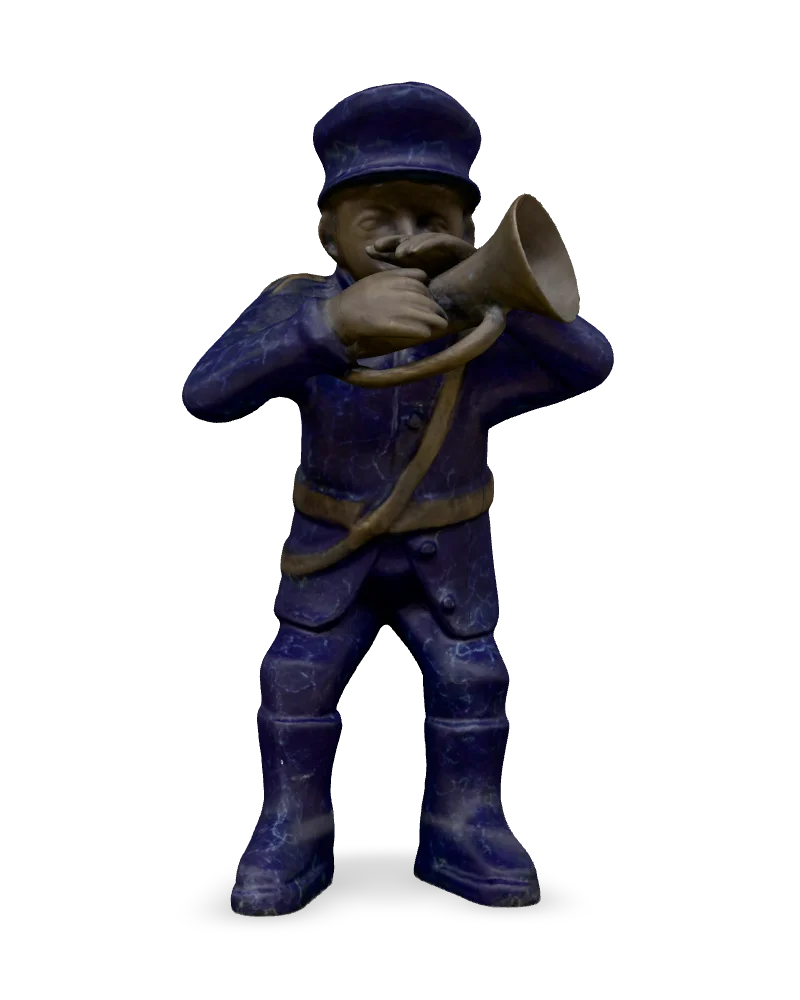
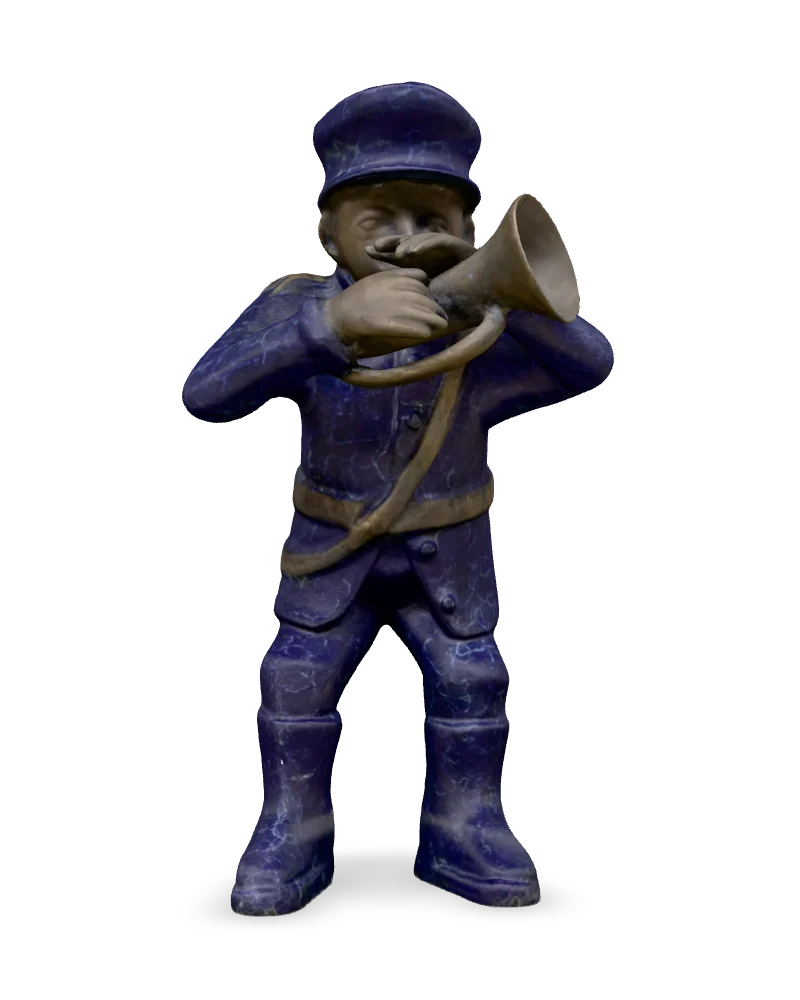
A little more light on the Seated Bandsman and the Trumpeter
Light 1.4 and reflections x1.5 on both; thumbnails remade.

diff --git a/lib/sculptures.ts b/lib/sculptures.ts
@@ -199,8 +199,9 @@ export const sculptures: Sculpture[] = [
     title: "Seated Bandsman with Horn",
     description: "",
     artistSlug: "krishen-khanna",
-    thumbnail: "/thumbnails/khanna-seated-bandsman-with-horn.webp?v=2",
+    thumbnail: "/thumbnails/khanna-seated-bandsman-with-horn.webp?v=3",
     modelUrl: "/sculptures/khanna-untitled-seated-man.glb?v=2",
+    look: { light: 1.4, reflections: 1.5 },
     material: "Bronze",
     year: "",
     dimensions: "30 × 30 × 32 inches",
@@ -363,9 +364,9 @@ export const sculptures: Sculpture[] = [
     title: "Trumpeter",
     description: "",
     artistSlug: "krishen-khanna",
-    thumbnail: "/thumbnails/khanna-trumpeter.webp?v=3",
+    thumbnail: "/thumbnails/khanna-trumpeter.webp?v=4",
     modelUrl: "/sculptures/khanna-untitled-horn-player.glb",
-    look: { metalness: 0.2, roughness: 1.6, reflections: 0.6 },
+    look: { metalness: 0.2, roughness: 1.6, reflections: 0.9, light: 1.4 },
     material: "Bronze",
     year: "",
     dimensions: "17 × 9 × 8 inches",

diff --git a/docs/lighting-progress.md b/docs/lighting-progress.md
@@ -31,8 +31,10 @@ User's taste: **matte and natural, not shiny**. The user judges each work by eye
 | Painted heads | `{ metalness: 0, roughness: 2, reflections: 0.5, light: 0.9 }` | Ruby Saree, Polka-Dot Collar, Nose Ring |
 | … dimmer | same, `light: 0.65` | Dark Green Saree, Yellow Saree |
 | … brighter | same, `light: 1.2` | Side Braid |
-| Painted figures | `{ metalness: 0.2, roughness: 1.6, reflections: 0.6 }` | 10 Khanna bandsmen, Ganesha, Meri Patang |
+| Painted figures | `{ metalness: 0.2, roughness: 1.6, reflections: 0.6 }` | 9 Khanna bandsmen, Ganesha, Meri Patang |
 | … dimmer | same, `reflections: 0.51, light: 0.7` | Couple |
+| … brighter | same, `reflections: 0.9, light: 1.4` | Trumpeter |
+| Seated Bandsman | `{ light: 1.4, reflections: 1.5 }` | dark grey, needed lifting |
 | … brighter | same, `light: 1.3` | Dotted Saree, Man with Mridangam |
 | Blue Saree | `{ metalness: 0.2, roughness: 1.6, reflections: 1.2, light: 1.6 }` | dark bronze skin needed lifting |
 | Blue Turban | `{ metalness: 0.15, roughness: 1.3, reflections: 1.2, light: 1.3, specular: 0.6, sideLights: 1 }` | black face showed no form |
@@ -41,7 +43,7 @@ User's taste: **matte and natural, not shiny**. The user judges each work by eye
 | Bronze Long-Hair head | `{ metalness: 0.2, roughness: 1.8, reflections: 0.6 }` | the bronze setting still glared on its face |
 | Lady | `{ light: 1.8, reflections: 2.5, sideLights: 1 }` | dark patina read as dull black |
 | Glossy non-metal | `{ roughness: 2, reflections: 0.6 }` / `{ roughness: 1.8, reflections: 0.7 }` | Ghosh / Matar |
-| Untouched | — | Seated Bandsman, Tailor, Cat, Man from Moon |
+| Untouched | — | Tailor, Cat, Man from Moon |
 
 ## Changing a work
 1. Dev server: `npx next dev --webpack -p 3000` (Turbopack crashes on this machine).
